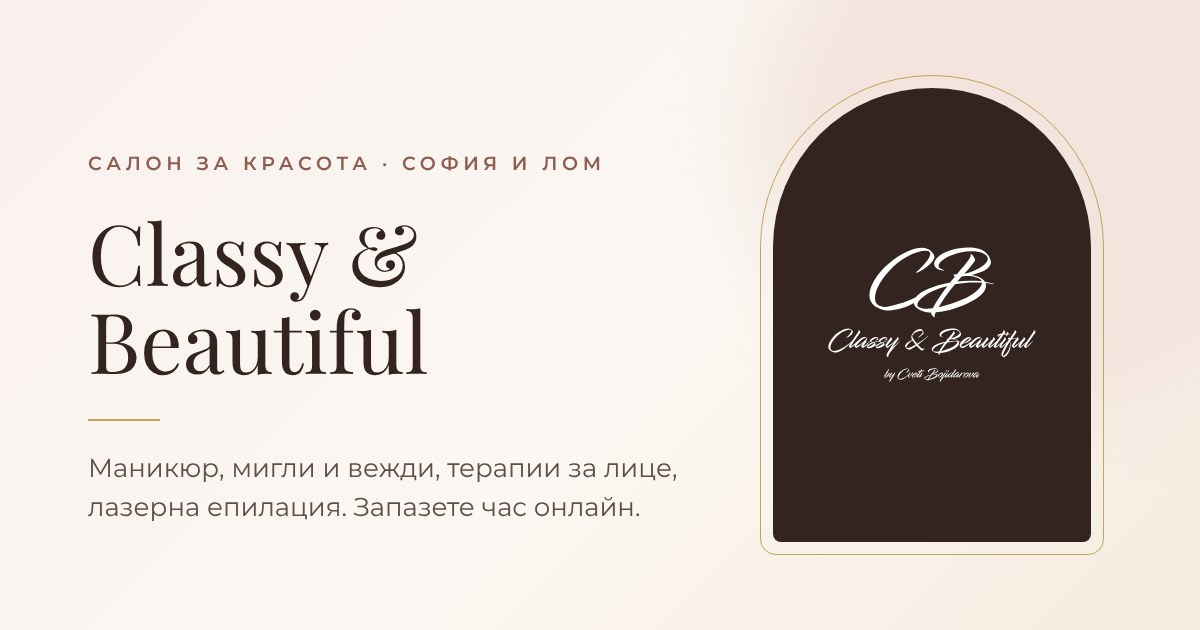
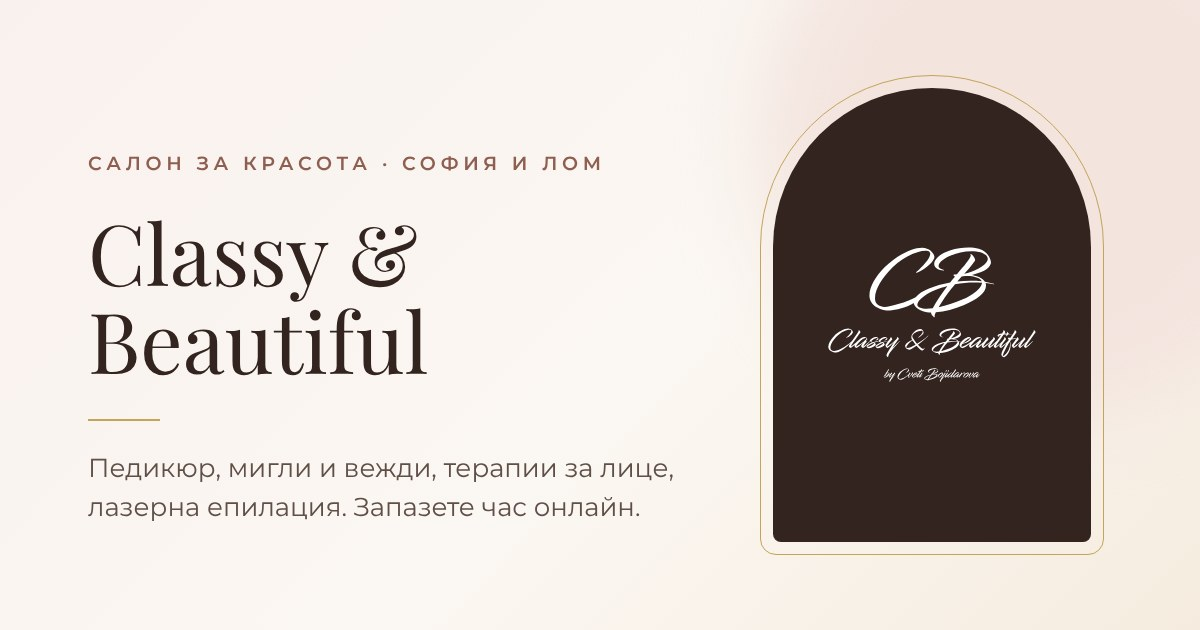
No same-day online bookings; remove manicure wording and photo
- The earliest day a customer can book online is tomorrow
  (MIN_BOOKING_NOTICE_DAYS); staff can still move a booking to today
- The salon does not offer manicure: removed from page descriptions and
  the share image, and dropped the manicure backup photo

Claude-Session: https://claude.ai/code/session_01SsV6N7WtwEssQGD5tmTgc9

Changed region(s): [[0.0617, 0.7238, 0.555, 0.7841]]

diff --git a/tests/unit/slots.test.ts b/tests/unit/slots.test.ts
@@ -72,8 +72,11 @@ describe("day rules", () => {
 
   it("limits the booking window", () => {
     const now = new Date(at("12:00"));
-    expect(isWithinBookingWindow(DAY, now)).toBe(true);
+    expect(isWithinBookingWindow(DAY, now)).toBe(false); // no same-day bookings
+    expect(isWithinBookingWindow("2026-11-06", now)).toBe(true);
     expect(isWithinBookingWindow("2026-11-04", now)).toBe(false);
+    expect(isWithinBookingWindow("2027-01-04", now)).toBe(true);
+    expect(isWithinBookingWindow("2027-01-05", now)).toBe(false);
     expect(isWithinBookingWindow("2027-02-01", now)).toBe(false);
   });
 
@@ -107,7 +110,7 @@ describe("dayOccupancy", () => {
 describe("getBookingWindowDays", () => {
   it("lists every day of the window", () => {
     const days = getBookingWindowDays(new Date(at("12:00")));
-    expect(days[0]).toBe(DAY);
-    expect(days).toHaveLength(61);
+    expect(days[0]).toBe("2026-11-06"); // starts tomorrow
+    expect(days).toHaveLength(60);
   });
 });

diff --git a/src/app/proceduri/page.tsx b/src/app/proceduri/page.tsx
@@ -9,7 +9,7 @@ export const dynamic = "force-dynamic";
 export const metadata: Metadata = pageMetadata({
   title: "Процедури и цени",
   description:
-    "Цени и продължителност на всички процедури в Classy & Beautiful: маникюр и педикюр, мигли и вежди, терапии за лице, лазерна епилация и кола маска в София и Лом.",
+    "Цени и продължителност на всички процедури в Classy & Beautiful: педикюр, мигли и вежди, терапии за лице, лазерна епилация и кола маска в София и Лом.",
   path: "/proceduri",
 });
 

diff --git a/src/lib/slots.ts b/src/lib/slots.ts
@@ -1,5 +1,6 @@
 import {
   BOOKING_WINDOW_DAYS,
+  MIN_BOOKING_NOTICE_DAYS,
   OPENING_HOURS,
   SLOT_INTERVAL_MINUTES,
 } from "@/config/site";
@@ -87,8 +88,11 @@ export function buildDaySlots({
 
 /** First and last bookable calendar days ("yyyy-MM-dd"), salon time. */
 export function getBookingWindow(now: Date = new Date()) {
-  const first = toDateKey(now);
-  return { first, last: addDaysToKey(first, BOOKING_WINDOW_DAYS) };
+  const today = toDateKey(now);
+  return {
+    first: addDaysToKey(today, MIN_BOOKING_NOTICE_DAYS),
+    last: addDaysToKey(today, BOOKING_WINDOW_DAYS),
+  };
 }
 
 export function isWithinBookingWindow(dateKey: string, now: Date = new Date()): boolean {

diff --git a/src/app/layout.tsx b/src/app/layout.tsx
@@ -23,7 +23,7 @@ const body = Montserrat({
 });
 
 const DESCRIPTION =
-  "Салон за красота Classy & Beautiful в София и Лом: маникюр, педикюр, лазерна епилация, мигли, вежди и терапии за лице. Вижте цените и запазете час онлайн.";
+  "Салон за красота Classy & Beautiful в София и Лом: педикюр, лазерна епилация, мигли, вежди и терапии за лице. Вижте цените и запазете час онлайн.";
 
 export const metadata: Metadata = {
   metadataBase: new URL(siteUrl),

diff --git a/src/app/galeriya/page.tsx b/src/app/galeriya/page.tsx
@@ -11,7 +11,7 @@ export const revalidate = 600;
 export const metadata: Metadata = pageMetadata({
   title: "Галерия",
   description:
-    "Снимки от салона и резултати от процедурите на Classy & Beautiful в София и Лом: маникюр, мигли, вежди и терапии за лице.",
+    "Снимки от салона и резултати от процедурите на Classy & Beautiful в София и Лом: педикюр, мигли, вежди и терапии за лице.",
   path: "/galeriya",
 });
 

diff --git a/src/config/site.ts b/src/config/site.ts
@@ -84,6 +84,12 @@ export function openingHoursLines(): string[] {
 }
 
 export const SLOT_INTERVAL_MINUTES = 30;
+/**
+ * How many days in advance an online booking must be made. 1 = the earliest
+ * bookable day is tomorrow, so nobody can book for today. Staff can still
+ * move a booking to today from the admin panel.
+ */
+export const MIN_BOOKING_NOTICE_DAYS = 1;
 /** How many days ahead customers can book. */
 export const BOOKING_WINDOW_DAYS = 60;
 /** Max upcoming active bookings a single phone number may hold. */

diff --git a/src/components/hero-carousel-wrapper.tsx b/src/components/hero-carousel-wrapper.tsx
@@ -5,7 +5,6 @@ import { getCarouselImages } from "@/lib/data/carousel";
 // in Admin > Снимки or the image storage is unavailable.
 const backupImages: HeroImage[] = [
   { src: "/images/hero/hero-1.jpg", alt: "Козметична процедура за лице" },
-  { src: "/images/hero/hero-2.jpg", alt: "Маникюр в салона" },
   { src: "/images/hero/hero-3.jpg", alt: "Спа процедура" },
 ];
 

diff --git a/src/components/admin/procedures-manager.tsx b/src/components/admin/procedures-manager.tsx
@@ -172,7 +172,7 @@ export function ProceduresManager({ procedures: initialProcedures }: ProceduresM
                     setFormData({ ...formData, name: e.target.value })
                   }
                   required
-                  placeholder="Класически маникюр"
+                  placeholder="Медицински педикюр"
                 />
               </div>
 

diff --git a/tests/unit/email-templates.test.ts b/tests/unit/email-templates.test.ts
@@ -16,7 +16,7 @@ const reservation: EmailReservation = {
   customer_phone: "+359888123456",
   customer_email: "maria@example.bg",
   customer_note: null,
-  procedureName: "Маникюр",
+  procedureName: "Педикюр",
   durationMinutes: 90,
   price: 36.8,
 };

diff --git a/docs/SETUP.md b/docs/SETUP.md
@@ -89,7 +89,7 @@ a "Как да стигнете" Google Maps link. While it is `null` nothing is
 ## 8. Opening hours and booking rules
 
 Edit `src/config/site.ts`: opening hours per weekday, slot length, how far
-ahead customers can book, and the maximum number of upcoming bookings per phone
+ahead customers can book, the minimum notice (no same-day online bookings), and the maximum number of upcoming bookings per phone
 number. The same values drive the booking wizard, the server checks and the
 opening hours shown to search engines.
 
